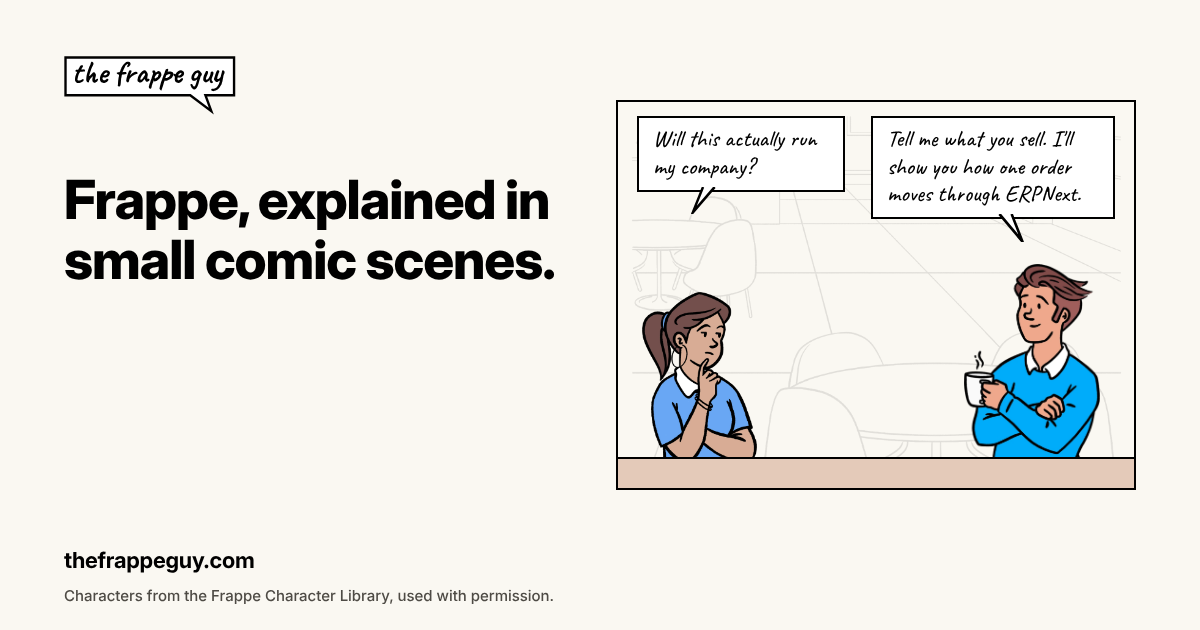
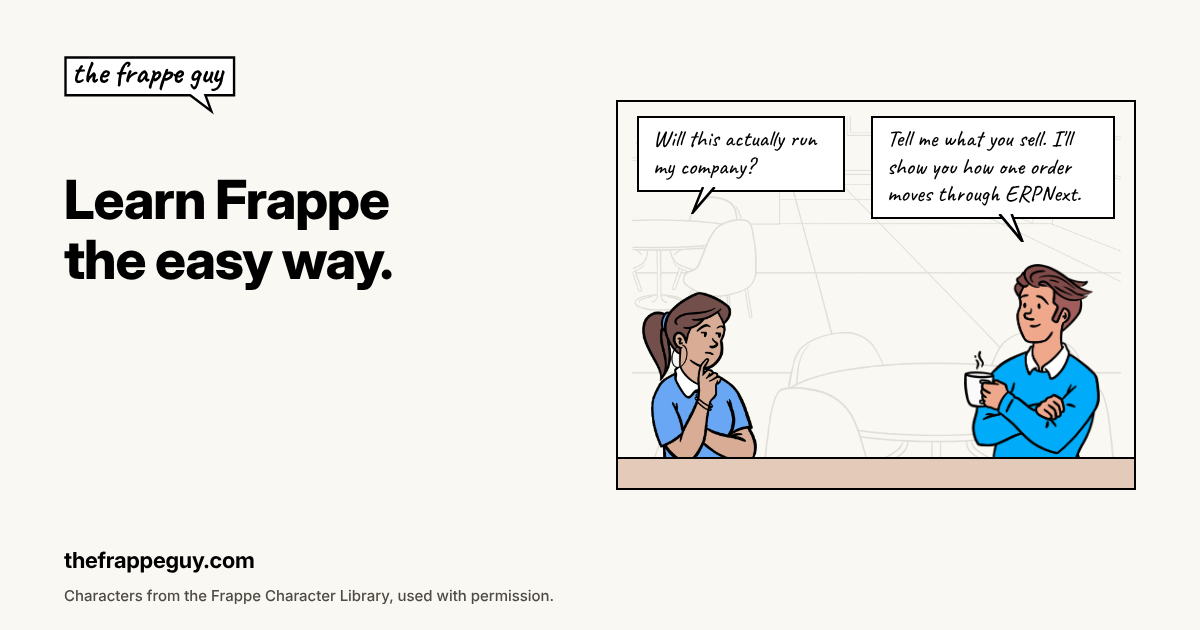
Site 1.9.1: the hero line goes back to "Learn Frappe the easy way."
Rushabh's "too easy" (D-166) was about how easy the site seems to make,
not the line (Mauli, 7 Nov). Restores the hero, the lede, the default
meta description and the RSS description, and puts the line on the
home share card too (D-201).

Claude-Session: https://claude.ai/code/session_01XPPmuQ21iKQKXDpMccrT2y

Changed region(s): [[0.0308, 0.2714, 0.4625, 0.4524]]

diff --git a/thefrappeguy/www/index.html b/thefrappeguy/www/index.html
@@ -5,8 +5,8 @@
   <section class="hero">
     <div>
       <p class="label">FRAPPE, EXPLAINED</p>
-      <h1 class="display">Can Frappe run a business? Watch one company find out.</h1>
-      <p class="lede">The Coffee Company has outgrown its spreadsheets. The Frappe Guy walks its team through Frappe, topic by topic, in short comic parts.</p>
+      <h1 class="display">Learn Frappe the easy way.</h1>
+      <p class="lede">Follow one company as it finds out whether Frappe can run its business. The Frappe Guy walks the team through it, topic by topic, in short comic parts.</p>
       <div class="actions"><a class="btn" href="/series/frappe-101">Start the story</a><a class="btn btn--ghost" href="/explainers">Browse all explainers</a></div>
     </div>
     <div class="panel-col">{{ tfg_panel(

diff --git a/thefrappeguy/templates/tfg_base.html b/thefrappeguy/templates/tfg_base.html
@@ -1,6 +1,6 @@
 {%- set site_title = "The Frappe Guy" -%}
 {%- set full_title = (page_title ~ " · " ~ site_title) if page_title else site_title -%}
-{%- set desc = page_description or "Frappe, explained in small comic scenes: follow one company as it finds out whether Frappe can run its business, in short comic parts on ERPNext, Frappe Cloud, pricing and more." -%}
+{%- set desc = page_description or "Learn Frappe the easy way: follow one company as it finds out whether Frappe can run its business, in short comic parts on ERPNext, Frappe Cloud, pricing and more." -%}
 {%- set share = og_image or "/assets/thefrappeguy/og/og-home.png" -%}
 {%- set share_url = share if share.startswith("http") else tfg_base ~ share -%}
 {%- set canonical_url = tfg_canonical() -%}

diff --git a/tools/build_assets.py b/tools/build_assets.py
@@ -62,8 +62,8 @@ def credit(color="#4E4B45", bottom=24):
 
 
 def page_home():
-	# The headline is About's own line, not the hero, which is still under review (D-166). It says what the site is
-	# and claims nothing about The Frappe Guy's character (brand core: never call ourselves honest).
+	# The headline is the site's hero line (D-201). It claims nothing about The Frappe Guy's character
+	# (brand core: never call ourselves honest).
 	panel = (
 		'<figure class="tfg-panel" style="--letter:23px">'
 		f'<img class="tfg-scenery" src="{u("img/env-cafeteria.webp")}" alt="">'
@@ -75,7 +75,7 @@ def page_home():
 	)
 	return f"""{HEAD}<div class="art" style="background:#FAF8F2;color:#000">
 <img src="{u('logo/tfg-logo.svg')}" style="position:absolute;left:64px;top:56px;width:180px" alt="">
-<h1 style="position:absolute;left:64px;top:170px;width:500px;font:800 54px/60px var(--font-sans);letter-spacing:-.02em">Frappe, explained in small comic scenes.</h1>
+<h1 style="position:absolute;left:64px;top:170px;width:500px;font:800 54px/60px var(--font-sans);letter-spacing:-.02em">Learn Frappe the easy way.</h1>
 <div style="position:absolute;right:64px;top:100px;width:520px">{panel}</div>
 <p class="url" style="margin:0;bottom:56px">thefrappeguy.com</p>{credit()}</div></body></html>"""
 

diff --git a/thefrappeguy/renderers.py b/thefrappeguy/renderers.py
@@ -71,7 +71,7 @@ def rss():
 		"<title>The Frappe Guy</title>"
 		f"<link>{b}/</link>"
 		f'<atom:link href="{b}/rss.xml" rel="self" type="application/rss+xml"/>'
-		"<description>Frappe, explained in small comic scenes: follow one company as it finds out whether Frappe can run its business, in short comic parts on ERPNext, Frappe Cloud, pricing and more.</description>"
+		"<description>Learn Frappe the easy way: follow one company as it finds out whether Frappe can run its business, in short comic parts on ERPNext, Frappe Cloud, pricing and more.</description>"
 		"<language>en-in</language>"
 		+ "".join(items)
 		+ "</channel></rss>"

diff --git a/thefrappeguy/__init__.py b/thefrappeguy/__init__.py
@@ -1,1 +1,1 @@
-__version__ = "1.9.0"
+__version__ = "1.9.1"
